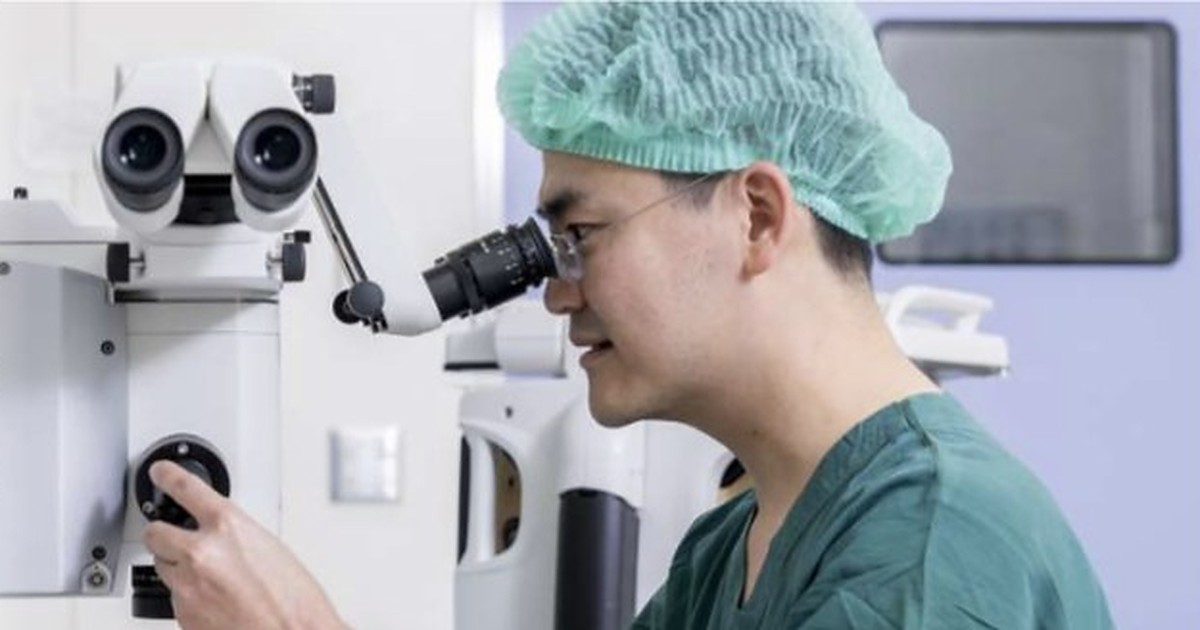
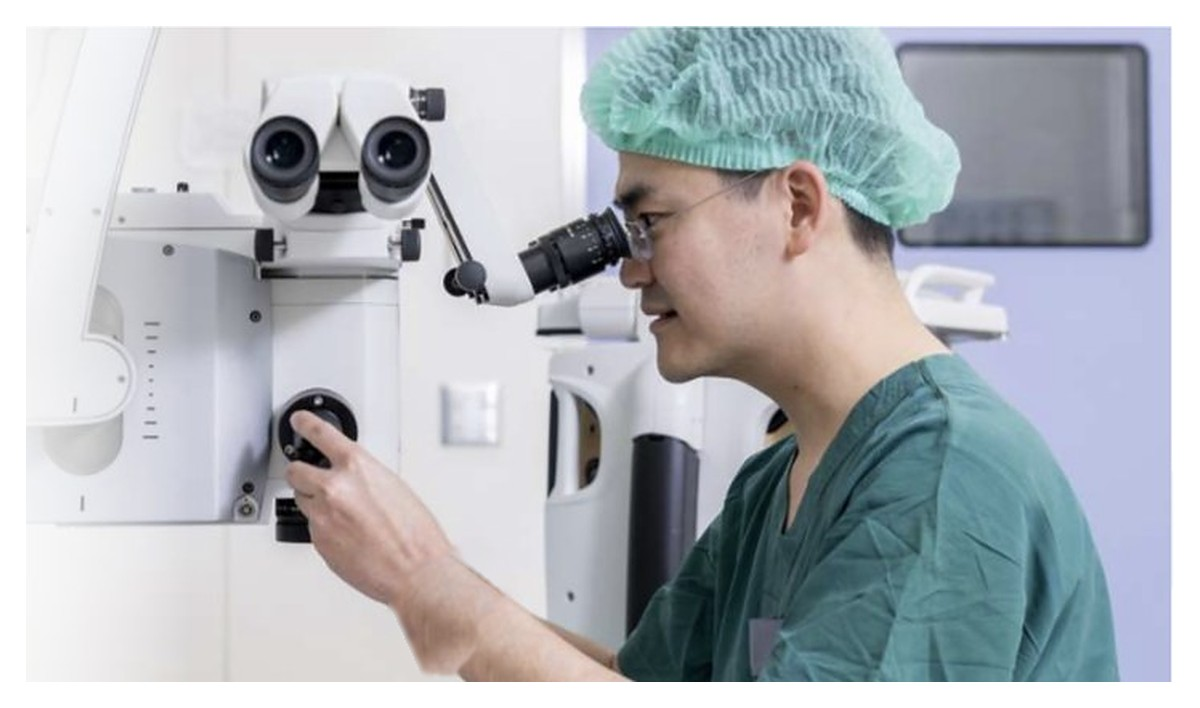
Share image: full microscope photo in its own proportion, white frame, watch removed
Claude-Session: https://claude.ai/code/session_01NDHphfd4apNpetBzQbX9Kk

diff --git a/index.html b/index.html
@@ -15,7 +15,7 @@
 <meta property="og:image:secure_url" content="https://thanapong.com/og-image.jpg">
 <meta property="og:image:type" content="image/jpeg">
 <meta property="og:image:width" content="1200">
-<meta property="og:image:height" content="630">
+<meta property="og:image:height" content="708">
 <meta property="og:image:alt" content="Dr. Thanapong Somkijrungroj looking through a surgical microscope in the operating room">
 <meta name="twitter:card" content="summary_large_image">
 <meta name="twitter:title" content="Dr. Thanapong Somkijrungroj, MD">
